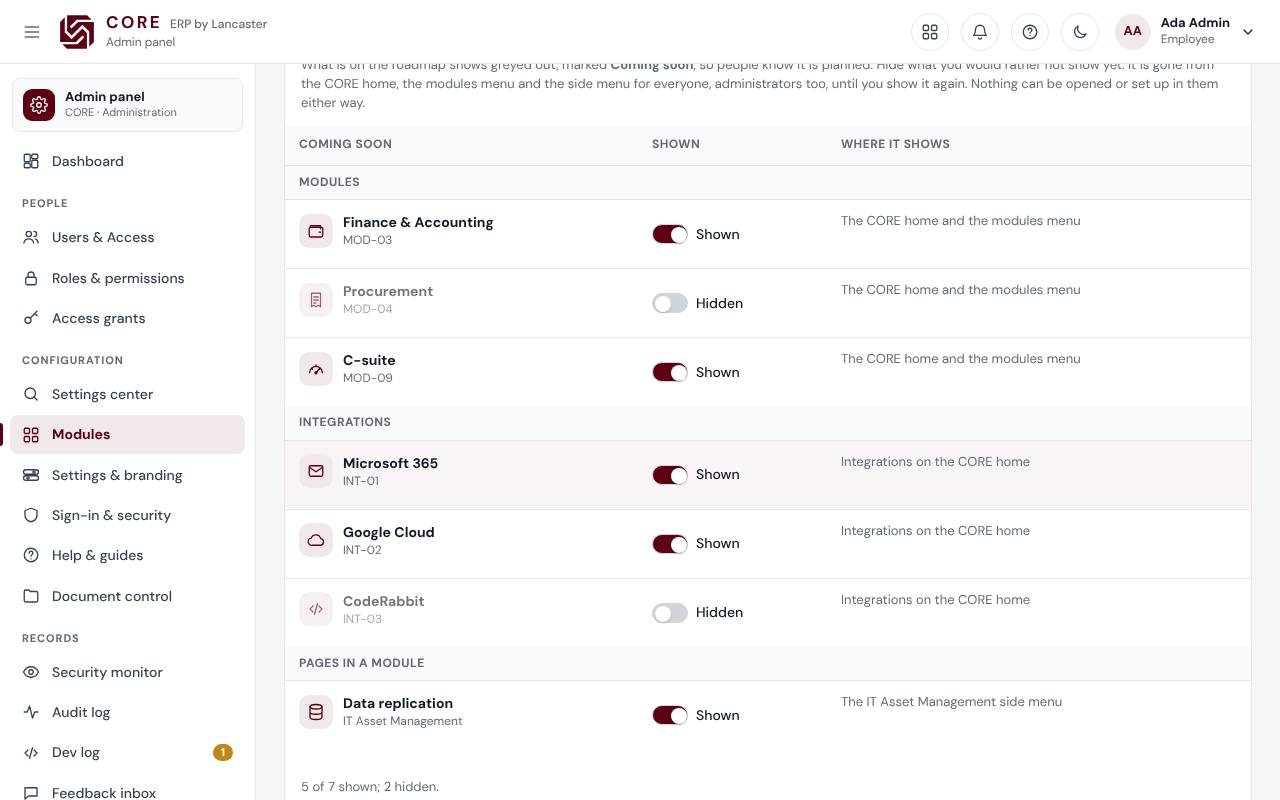
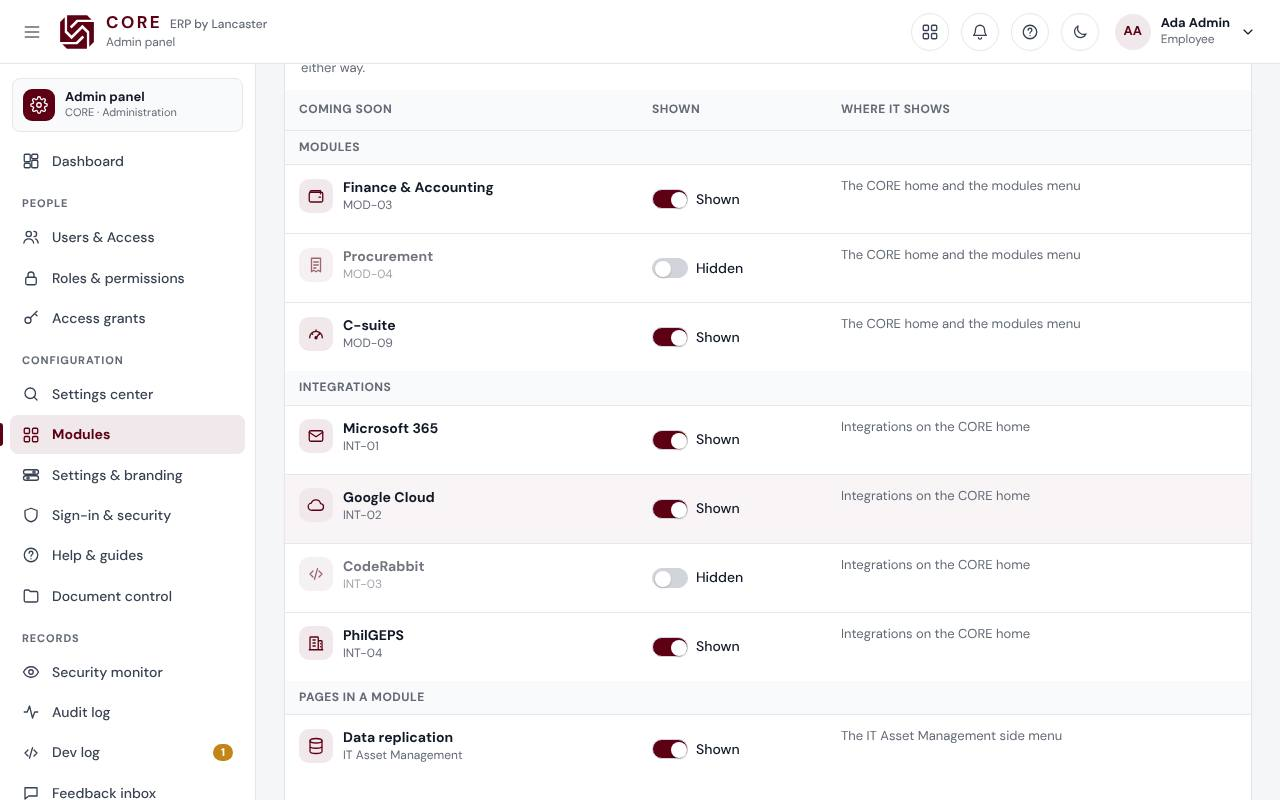
0.69.0-alpha: PhilGEPS integration, coming soon
A fourth integration on the CORE home, PhilGEPS (INT-04), in its own
indigo: bid notices that match what the company sells, brought into
Sales & CRM as bids with deadlines, documents and award notices. Shown
as a card and a compact tile, marked Coming soon, with nothing to open;
on the Admin panel's Coming soon list so it can be hidden. Getting
started, Admin panel guide, What's new and five screenshots updated.

Claude-Session: https://claude.ai/code/session_01JQ4oxiUA7CnD1ir2UC84uB

diff --git a/test/integrations.test.js b/test/integrations.test.js
@@ -1,15 +1,15 @@
-// Integrations on the CORE home (0.49): Microsoft 365, Google Cloud and CodeRabbit, all coming soon,
+// Integrations on the CORE home (0.49): Microsoft 365, Google Cloud, CodeRabbit and (0.69) PhilGEPS, all coming soon,
 // in their own area under Your modules; none can be opened, pinned or turned on.
 import { test } from 'node:test';
 import assert from 'node:assert/strict';
 import fs from 'node:fs';
 import { INTEGRATIONS, MODULES, PINNABLE, SWITCHABLE } from '../shared/modules.js';
 
-test('the integrations are Microsoft 365, Google Cloud and CodeRabbit, all coming soon', () => {
-  assert.deepEqual(INTEGRATIONS.map((i) => i.name), ['Microsoft 365', 'Google Cloud', 'CodeRabbit']);
+test('the integrations are Microsoft 365, Google Cloud, CodeRabbit and PhilGEPS, all coming soon', () => {
+  assert.deepEqual(INTEGRATIONS.map((i) => i.name), ['Microsoft 365', 'Google Cloud', 'CodeRabbit', 'PhilGEPS']);
   assert.ok(INTEGRATIONS.every((i) => i.status === 'soon' && i.description && i.tagline && i.glyph));
   // Each has its colour and the chips on its card (0.50).
-  assert.deepEqual(INTEGRATIONS.map((i) => i.accent), ['blue', 'teal', 'orange']);
+  assert.deepEqual(INTEGRATIONS.map((i) => i.accent), ['blue', 'teal', 'orange', 'indigo']);
   assert.ok(INTEGRATIONS.every((i) => Array.isArray(i.features) && i.features.length >= 2));
   const css = fs.readFileSync(new URL('../public/css/styles.css', import.meta.url), 'utf8');
   for (const i of INTEGRATIONS) {

diff --git a/shared/modules.js b/shared/modules.js
@@ -34,6 +34,9 @@ export const INTEGRATIONS = [
     description: 'Sign in with Google accounts, keep contract and project files in Google Drive, and keep CORE\'s backups in Google Cloud Storage.' },
   { id: 'coderabbit', code: 'INT-03', name: 'CodeRabbit', glyph: 'code', status: 'soon', accent: 'orange', features: ['Pull requests', 'AI review', 'Project tasks'], tagline: 'AI code review',
     description: 'CodeRabbit\'s AI reviews of pull requests on the project tasks they belong to, so a project manager sees what is reviewed and ready to merge.' },
+  // PhilGEPS (0.69): the Philippine Government Electronic Procurement System, for Sales & CRM's public bids.
+  { id: 'philgeps', code: 'INT-04', name: 'PhilGEPS', glyph: 'building', status: 'soon', accent: 'indigo', features: ['Bid notices', 'Sales & CRM bids', 'Deadlines', 'Awards'], tagline: 'Government bids into Sales & CRM',
+    description: 'Find PhilGEPS bid notices that match what the company sells, bring them into Sales & CRM as bids with their deadlines and documents, and follow the award notices.' },
 ];
 
 // Tools (0.64): work anyone signed in can do, whatever their module, shown under Integrations on the

diff --git a/shared/devlog.js b/shared/devlog.js
@@ -28,6 +28,16 @@ export const CHANGE_TYPES = { new: 'Added', improved: 'Changed', fixed: 'Fixed' 
 
 export const DEVLOG = [
   {
+    version: '0.69.0-alpha',
+    date: '2026-11-26',
+    title: 'PhilGEPS integration, coming soon',
+    modules: ['system'],
+    notes: 'A fourth integration on the roadmap, for Sales & CRM\'s public bids. Nothing connects to PhilGEPS yet.',
+    changes: [
+      ['new', 'system', 'CORE home → Integrations: PhilGEPS (INT-04), coming soon, in its own indigo: bid notices that match what the company sells brought into Sales & CRM as bids, with deadlines, documents and award notices. As a card and as a compact tile; on the Admin panel\'s Coming soon list, so it can be hidden.'],
+    ],
+  },
+  {
     version: '0.68.1-alpha',
     date: '2026-11-26',
     title: 'Compact home tiles of one size',

diff --git a/public/css/styles.css b/public/css/styles.css
@@ -3686,6 +3686,9 @@ button.pm-file-thumb:focus-visible { outline: 2px solid var(--brand-text); outli
 
 /* ---------- Tools on the CORE home (0.64) ---------- */
 .int-red { --int: #d64545; --int-deep: #a32424; --int-text: #b42323; }
+/* PhilGEPS (0.69): a deep indigo, apart from Microsoft 365's blue. */
+.int-indigo { --int: #4453c9; --int-deep: #2c3592; --int-text: #3730a3; }
+:root[data-theme='dark'] .int-indigo { --int-text: #a5b4fc; }
 :root[data-theme='dark'] .int-red { --int-text: #fca5a5; }
 .sys-card.tool-card { cursor: pointer; text-decoration: none; color: inherit; }
 .sys-card.tool-card:hover { transform: translateY(-2px); box-shadow: 0 10px 24px color-mix(in srgb, var(--int) 20%, transparent); }

diff --git a/docs/guides/getting-started.md b/docs/guides/getting-started.md
@@ -45,7 +45,7 @@ To see every module at once, choose **Compact** beside **Your modules**: the mod
 
 ![The CORE home in the compact view](getting-started-compact.jpg)
 
-Under your modules, **Integrations** lists the services CORE will connect to, all marked **Coming soon**: **Microsoft 365** (sign-in, Outlook and Teams), **Google Cloud** (sign-in, Google Drive and Cloud Storage) and **CodeRabbit** (AI code review on project tasks). Each card shows CORE's mark linked to the service, in the service's own colour, with what it will bring under the description. They are on the roadmap and cannot be opened or turned on yet. They follow the same **Cards | Compact** choice as your modules.
+Under your modules, **Integrations** lists the services CORE will connect to, all marked **Coming soon**: **Microsoft 365** (sign-in, Outlook and Teams), **Google Cloud** (sign-in, Google Drive and Cloud Storage) **CodeRabbit** (AI code review on project tasks) and **PhilGEPS** (government bid notices brought into Sales & CRM as bids, with their deadlines, documents and awards). Each card shows CORE's mark linked to the service, in the service's own colour, with what it will bring under the description. They are on the roadmap and cannot be opened or turned on yet. They follow the same **Cards | Compact** choice as your modules.
 
 ![Integrations on the CORE home, coming soon](getting-started-integrations.jpg)
 

diff --git a/docs/guides/admin.md b/docs/guides/admin.md
@@ -192,7 +192,7 @@ Self-service belongs to the module it is part of. With **Human Resource Manageme
 
 ### Show or hide what is coming soon
 
-What is on CORE's roadmap shows greyed out, marked **Coming soon**: the modules **Finance & Accounting**, **Procurement** and **C-suite** on the CORE home and in the modules menu; the integrations **Microsoft 365**, **Google Cloud** and **CodeRabbit** under **Integrations** on the CORE home; and **Data replication** in the IT Asset Management side menu. Nothing can be opened or set up in them yet.
+What is on CORE's roadmap shows greyed out, marked **Coming soon**: the modules **Finance & Accounting**, **Procurement** and **C-suite** on the CORE home and in the modules menu; the integrations **Microsoft 365**, **Google Cloud**, **CodeRabbit** and **PhilGEPS** under **Integrations** on the CORE home; and **Data replication** in the IT Asset Management side menu. Nothing can be opened or set up in them yet.
 
 1. Open **Admin panel → Modules** and scroll to **Coming soon**. They are grouped as **Modules**, **Integrations** and **Pages in a module**, with where each one shows.
 2. Turn a switch off to hide one: CORE says, for example, *Procurement is now hidden from everyone.* Turn it on to show it again. **Hide all** and **Show all** change them all at once; the line under the table counts how many are shown.

diff --git a/docs/guides/whats-new.md b/docs/guides/whats-new.md
@@ -9,6 +9,9 @@ order: 2
 
 ## November 2026
 
+### PhilGEPS on the roadmap (0.69)
+- **Integrations** on the CORE home has a new card, **PhilGEPS**, marked **Coming soon**: bid notices from the Philippine Government Electronic Procurement System that match what the company sells, brought into **Sales & CRM** as bids with their deadlines and documents, and their award notices. It cannot be opened or set up yet. An administrator can hide it in **Admin panel → Modules → Coming soon**. See [Getting started](getting-started#walkthrough).
+
 ### Compact tiles all the same size (0.68.1)
 - In the **Compact** view of the CORE home, every tile (modules, integrations and tools) is now the same height. Tiles show the module's short name, as the modules menu does (*HR Management*, *Projects*, *Documents*); point at a tile for its full name. See [Getting started](getting-started#walkthrough).
 
